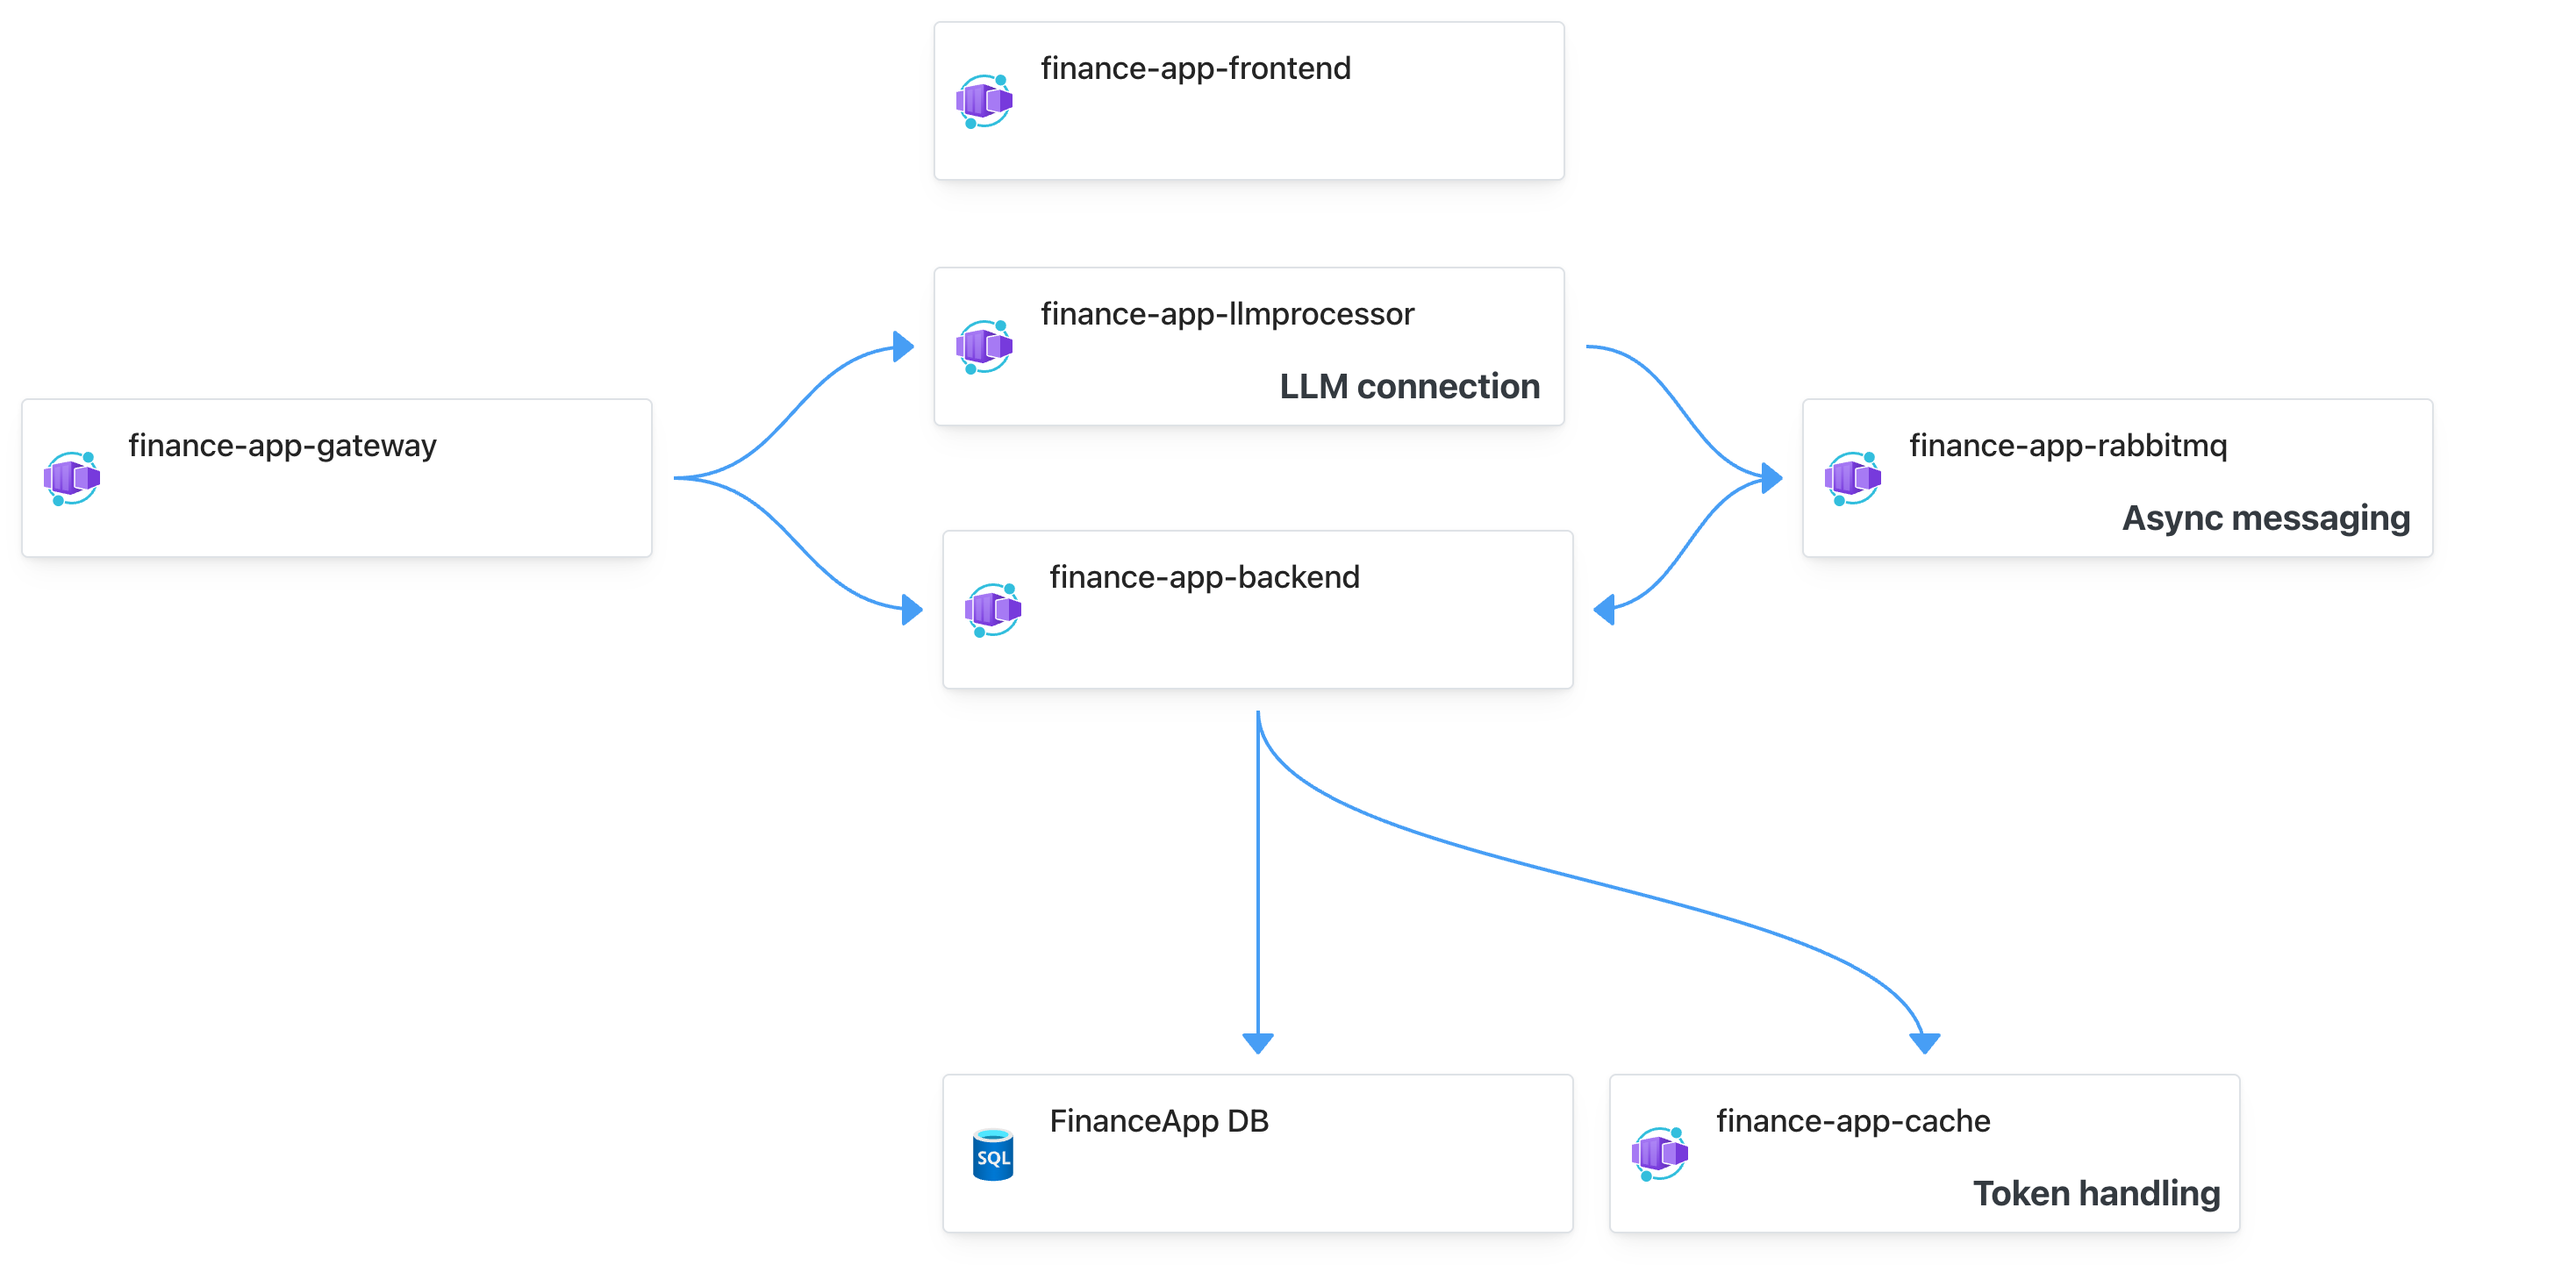
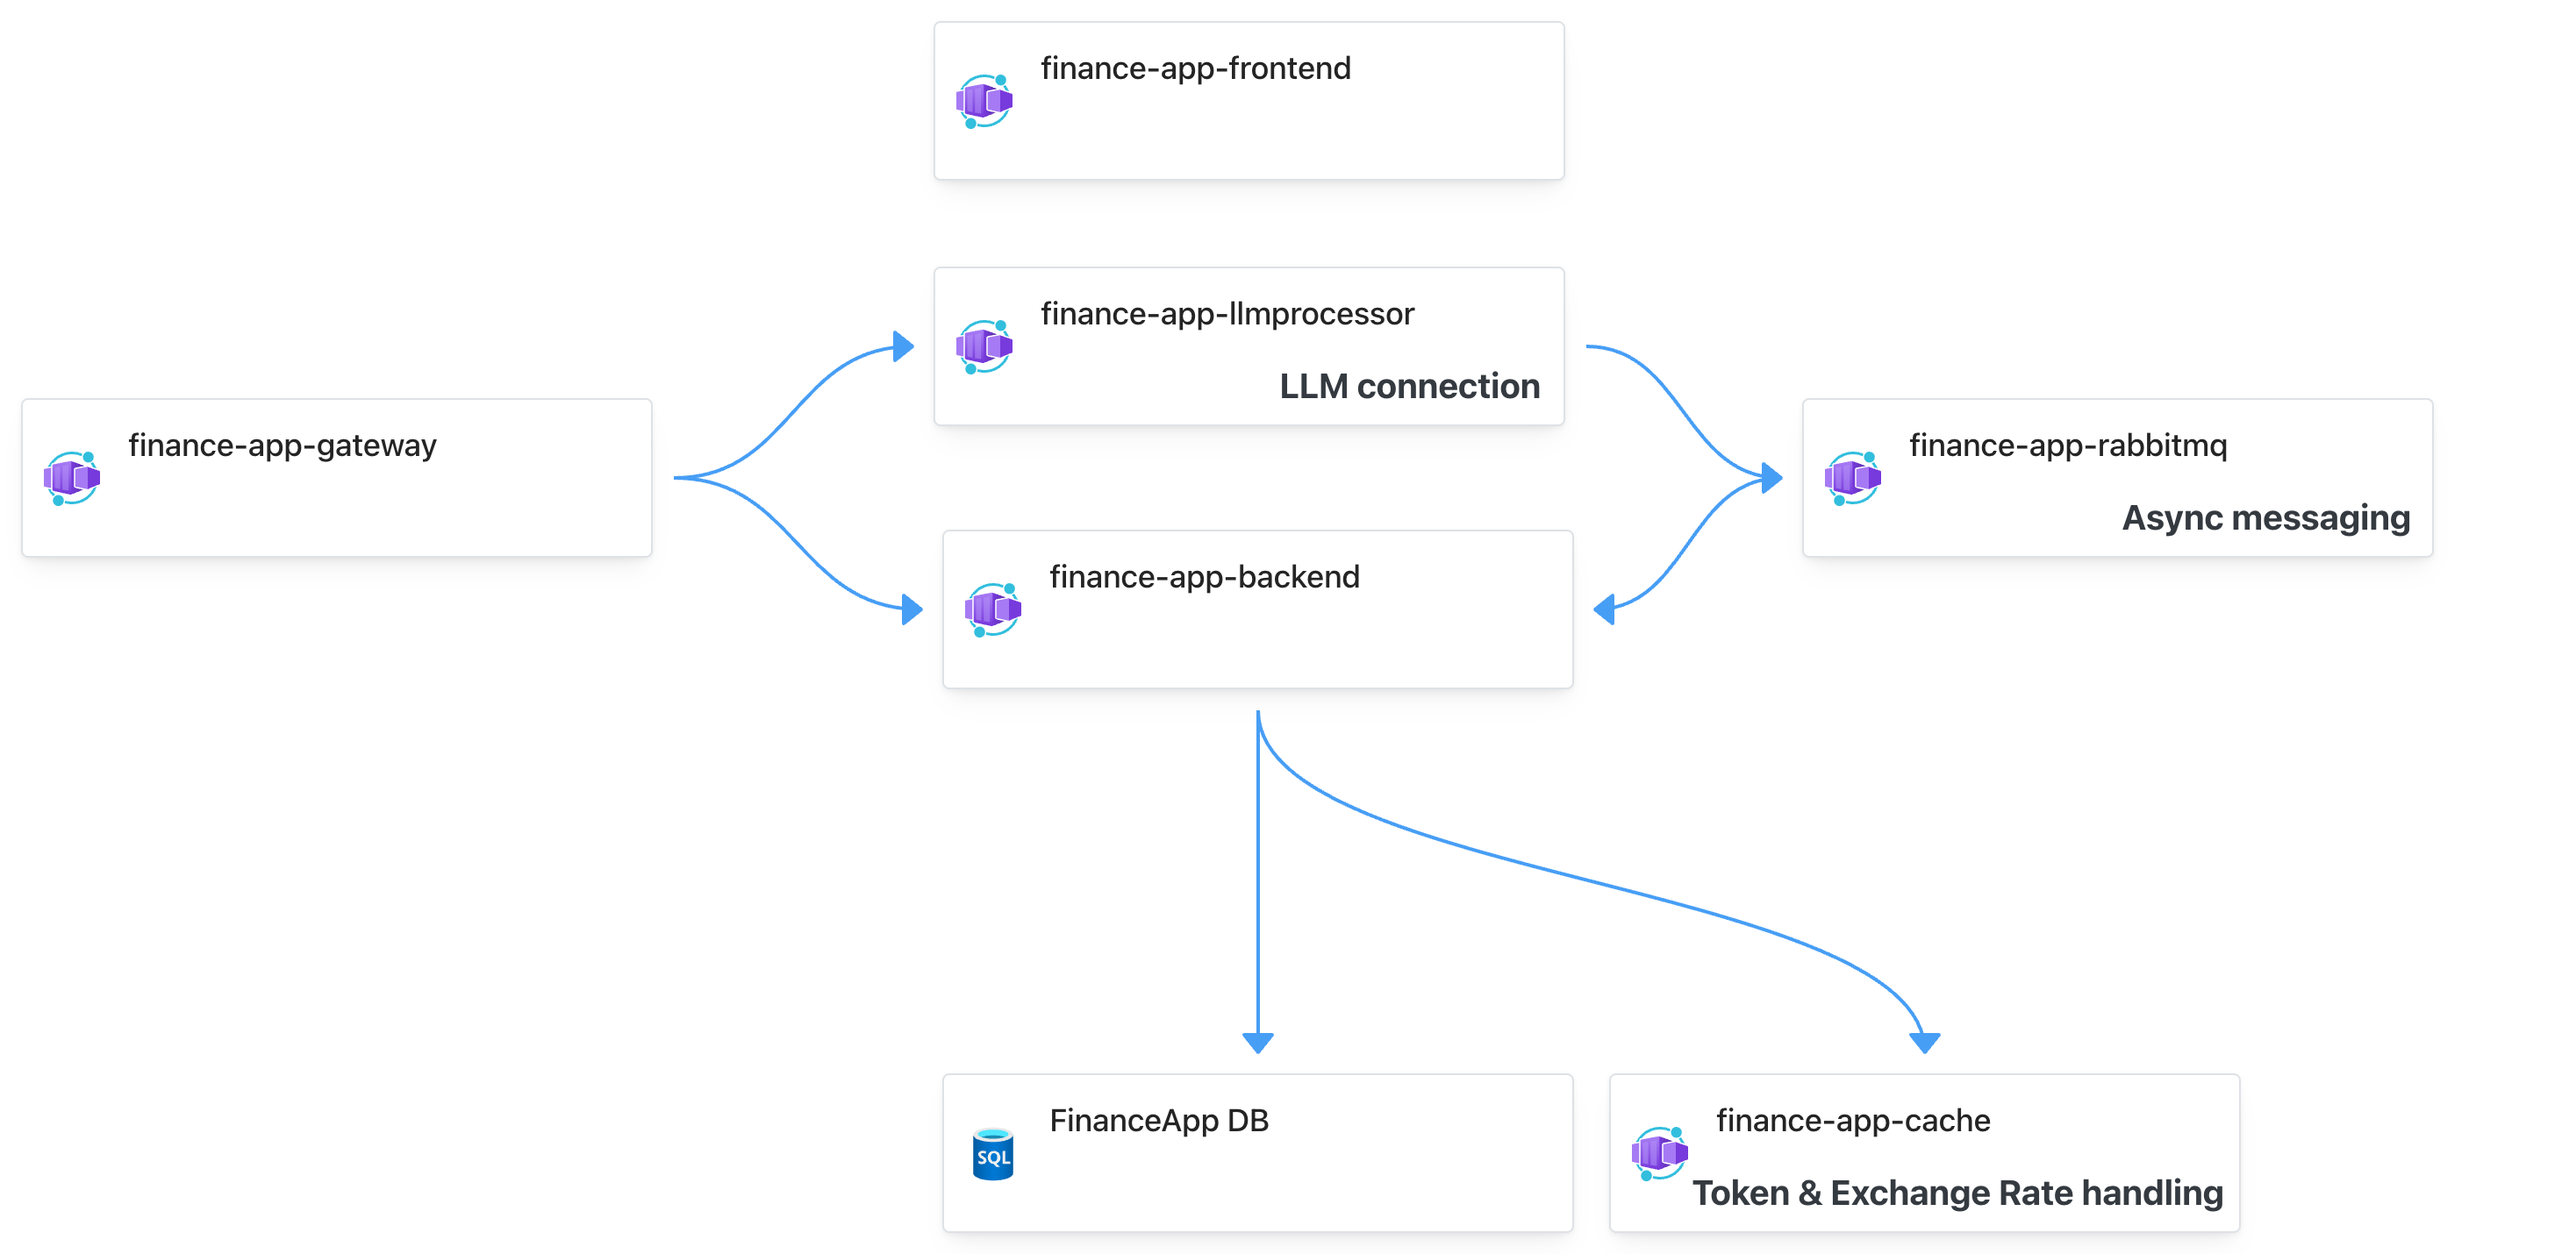
Updates

diff --git a/src/app/portfolio/portfolio.component.html b/src/app/portfolio/portfolio.component.html
@@ -18,16 +18,12 @@
                         </p>
                         <p>Key Features:</p>
                         <ul>
-                            <li>User registration with email confirmation, password reset, and token-based authentication</li>
+                            <li>User registration with email confirmation, password reset and token-based authentication using HTTP Only cookies</li>
                             <li>CRUD operations for transactions and transaction groups</li>
                             <li>CSV import for automatic transaction creation</li>
-                            <li>LLM integration for smart transaction categorization</li>
+                            <li>LLM integration for smart transaction categorization and queries</li>
                             <li>Transaction filtering, sorting, and currency switching</li>
                             <li>Weekly background job to fetch exchange rates from external APIs</li>
-                            <li>Default transaction groups at user signup</li>
-                            <li>Token management cache, MSSQL database</li>
-                            <li>AI-powered transaction group matching, advanced user management</li>
-                            <li>MCP solution for user chat requests</li>
                         </ul>
                     </mat-card-content>  
                     <mat-card-content>
@@ -47,7 +43,9 @@
                     </mat-card-content>
                     <mat-card-content>
                         <p>Azure Architecture</p>
-                        <img src="assets/diagram.png" alt="Azure Architecture Diagram" />
+                        <a href="assets/diagram.png" target="_blank">
+                            <img src="assets/diagram.png" alt="Azure Architecture Diagram" />
+                        </a>
                     </mat-card-content>
                     <mat-card-content>
                         <p>User creation with email confirmation</p>

diff --git a/src/app/areas/areas.component.html b/src/app/areas/areas.component.html
@@ -18,8 +18,7 @@
             <mat-card-title>API Development</mat-card-title>
           </mat-card-header>
           <mat-card-content>
-            <p>API Development
-              Developing and integrating RESTful APIs using .NET to ensure efficient and reliable communication between front-end and back-end systems.</p>
+            <p>Developing and integrating RESTful APIs using .NET to ensure efficient and reliable communication between front-end and back-end systems.</p>
           </mat-card-content>
         </mat-card>
         <mat-card appFloatInOnScroll class="default-font text-color-grey card">
@@ -37,7 +36,7 @@
             <mat-card-title>DevOps</mat-card-title>
           </mat-card-header>
           <mat-card-content>
-            <p>Developing and maintaining build and release pipelines in Azure DevOps, including Helm chart configurations and deployment workflows, alongside managing and maintaining development server environments.</p>
+            <p>Developing and maintaining build and release pipelines in Azure DevOps & GitHub, including Helm Chart configurations and deployment workflows, alongside managing and maintaining development server environments.</p>
           </mat-card-content>
         </mat-card>
       </div>

diff --git a/src/app/portfolio/portfolio.component.scss b/src/app/portfolio/portfolio.component.scss
@@ -109,9 +109,6 @@ h2 {
     line-height: 3rem;
 }
 
-// Responsive
-@media (max-width: 1400px) {
-    .portfolio-card {
-        max-width: 100%;
-    }
+.portfolio-card {
+    max-width: 100%;
 }
